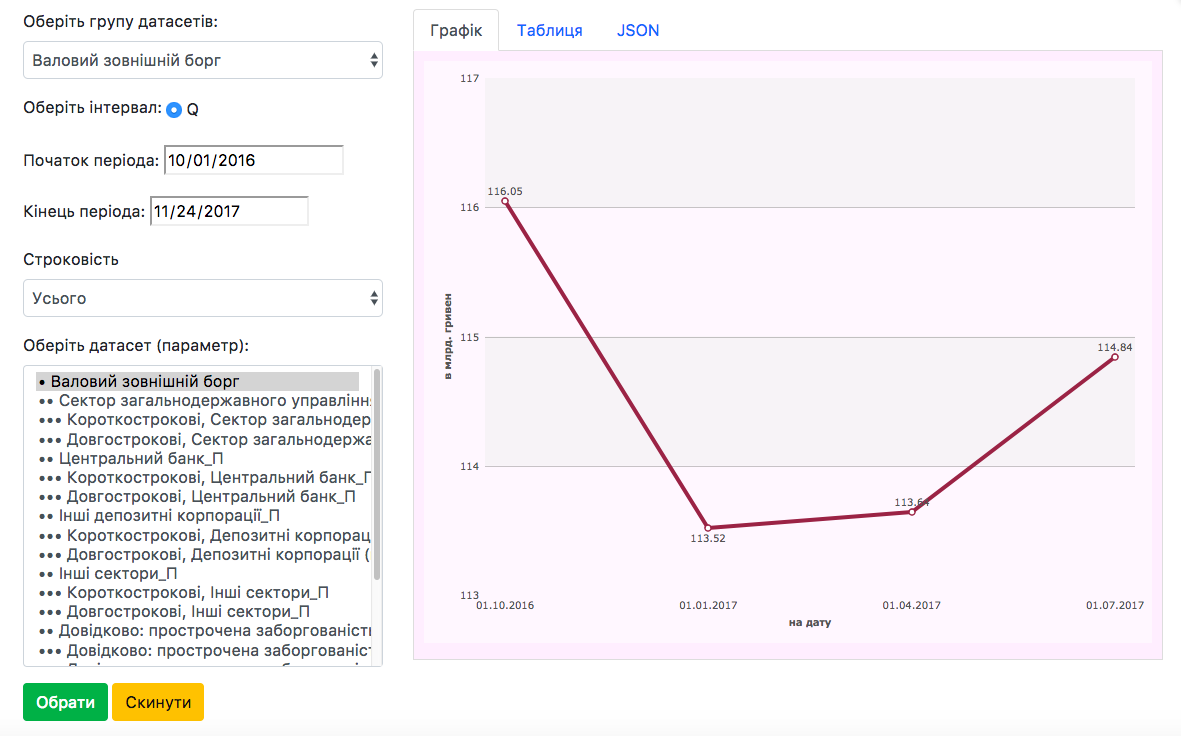
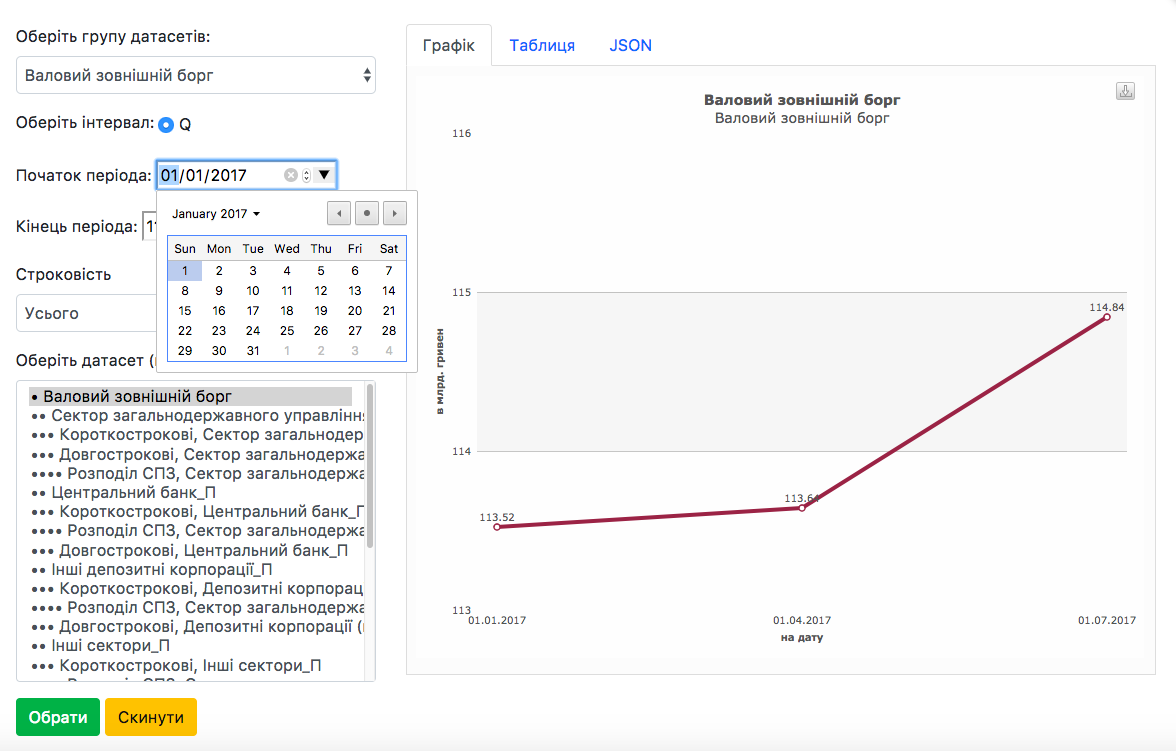
minor changes

diff --git a/opendata-explorer/index.php b/opendata-explorer/index.php
@@ -48,7 +48,7 @@ set_time_limit(0);
 
 			foreach ($entryPointDecoded as $key => $value) {
 				echo "<option value=\"" . $value->apikod . "\"";
-				if ( isset($_GET["apikod"]) ) { if ($_GET["apikod"] == $value->apikod) { echo " selected"; } else { echo " disabled"; } }
+				if ( isset($_GET["apikod"]) ) { if ($_GET["apikod"] == $value->apikod) { echo " selected"; $dataGroupName = $value->txt; } else { echo " disabled"; } }
 				echo ">" . $value->txt . "</option>";			
 			}
 
@@ -379,15 +379,15 @@ set_time_limit(0);
 				$myChart = new FusionCharts("line", "myChartContainer", "100%", "80%", "myGreatChartContainer", "json",
 		            '{
 		                "chart": {
-		                    "caption": "",
-		                    "subCaption": "",
+		                    "caption": "' . $dataGroupName . '",
+		                    "subCaption": "' . $sortArrayFinal[0]->txt . '",
 		                    "xAxisName": "на дату",
 		                    "yAxisName": "в млрд. гривен",
 		                    "numberPrefix": "",
 		                    "formatNumber": "0",
 		                    "formatNumberScale": "0",
 		                    "paletteColors": "#903749, #6A2C70",
-		                    "bgColor": "#FEF0FF",
+		                    "bgColor": "#FCFCFC",
 		                    "canvasBgAlpha": "0",
 		                    "borderAlpha": "5",
 		                    "canvasBorderAlpha": "0",
@@ -492,6 +492,7 @@ set_time_limit(0);
 		        $dataSetContent = null;
 		        $arrDataVis = null;
 		        $arrDataVisOutput = null;
+		        $sortArrayFinal = null;
 			}
 
 			?>

diff --git a/opendata-explorer/includes/layout/header.php b/opendata-explorer/includes/layout/header.php
@@ -21,7 +21,7 @@
             border-right: 1px solid #ddd;
             border-bottom: 1px solid #ddd;
             padding: 10px;
-            background-color: #FEF0FF;
+            background-color: #FCFCFC;
         }
 
         .nav-tabs {
